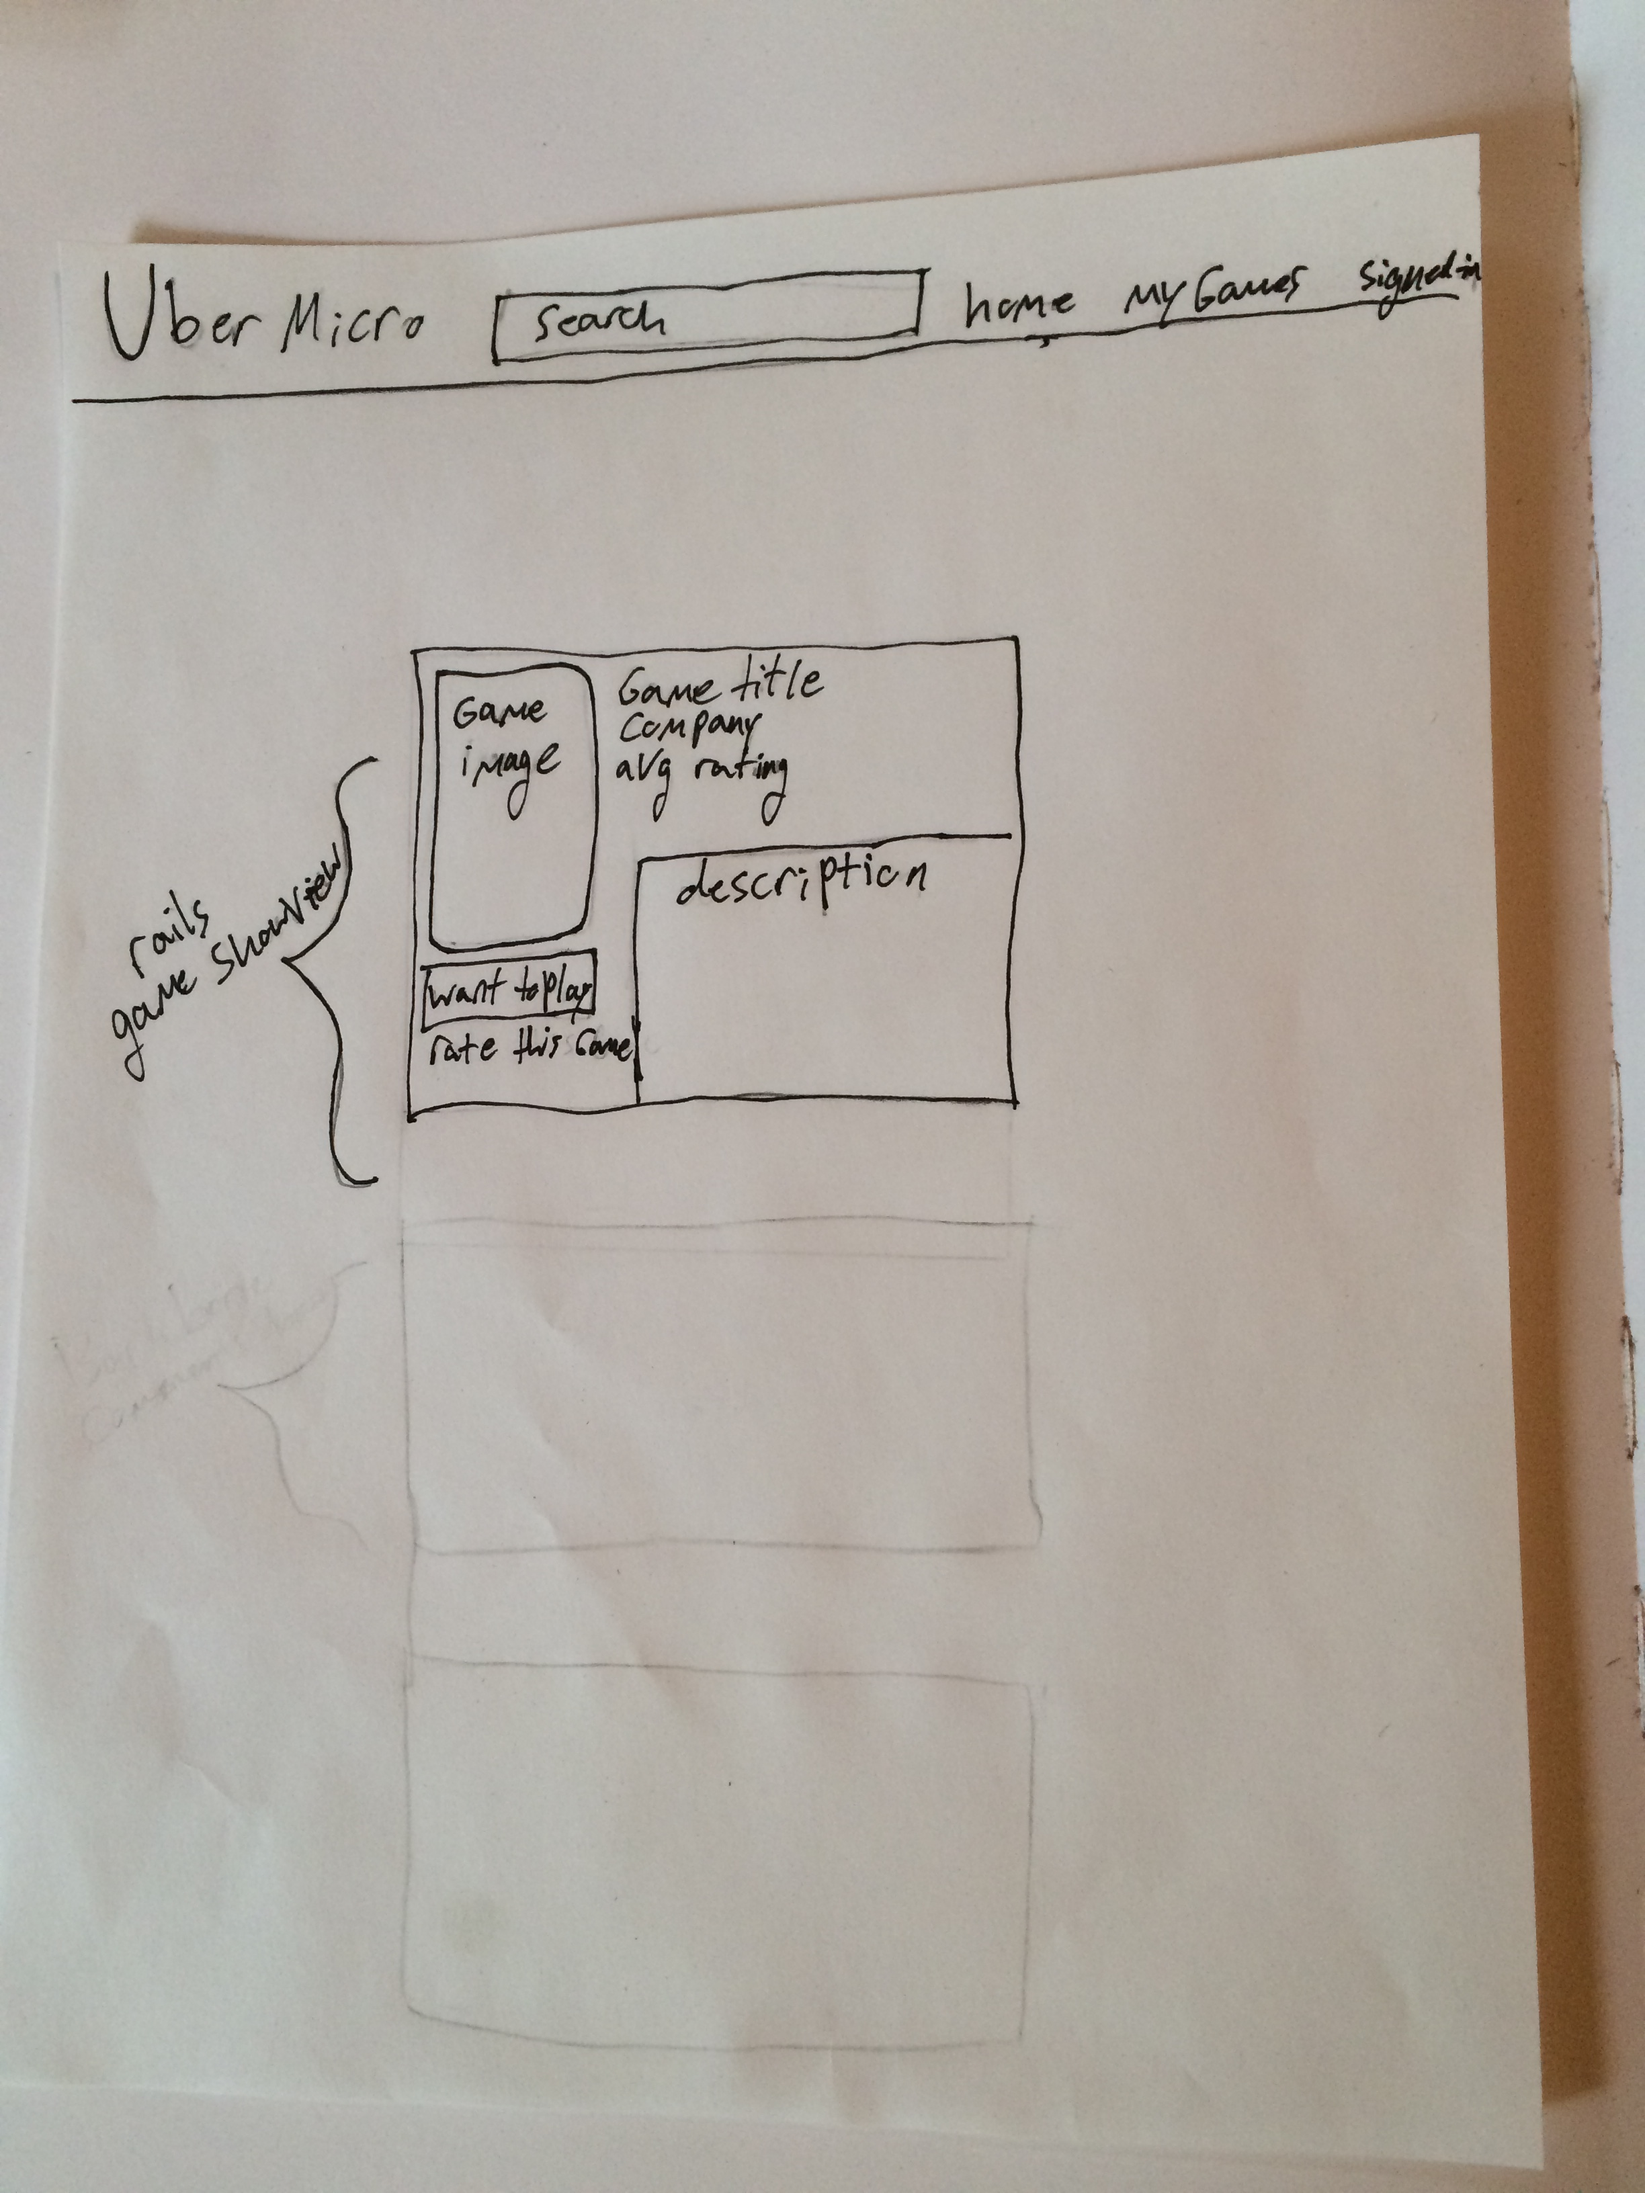
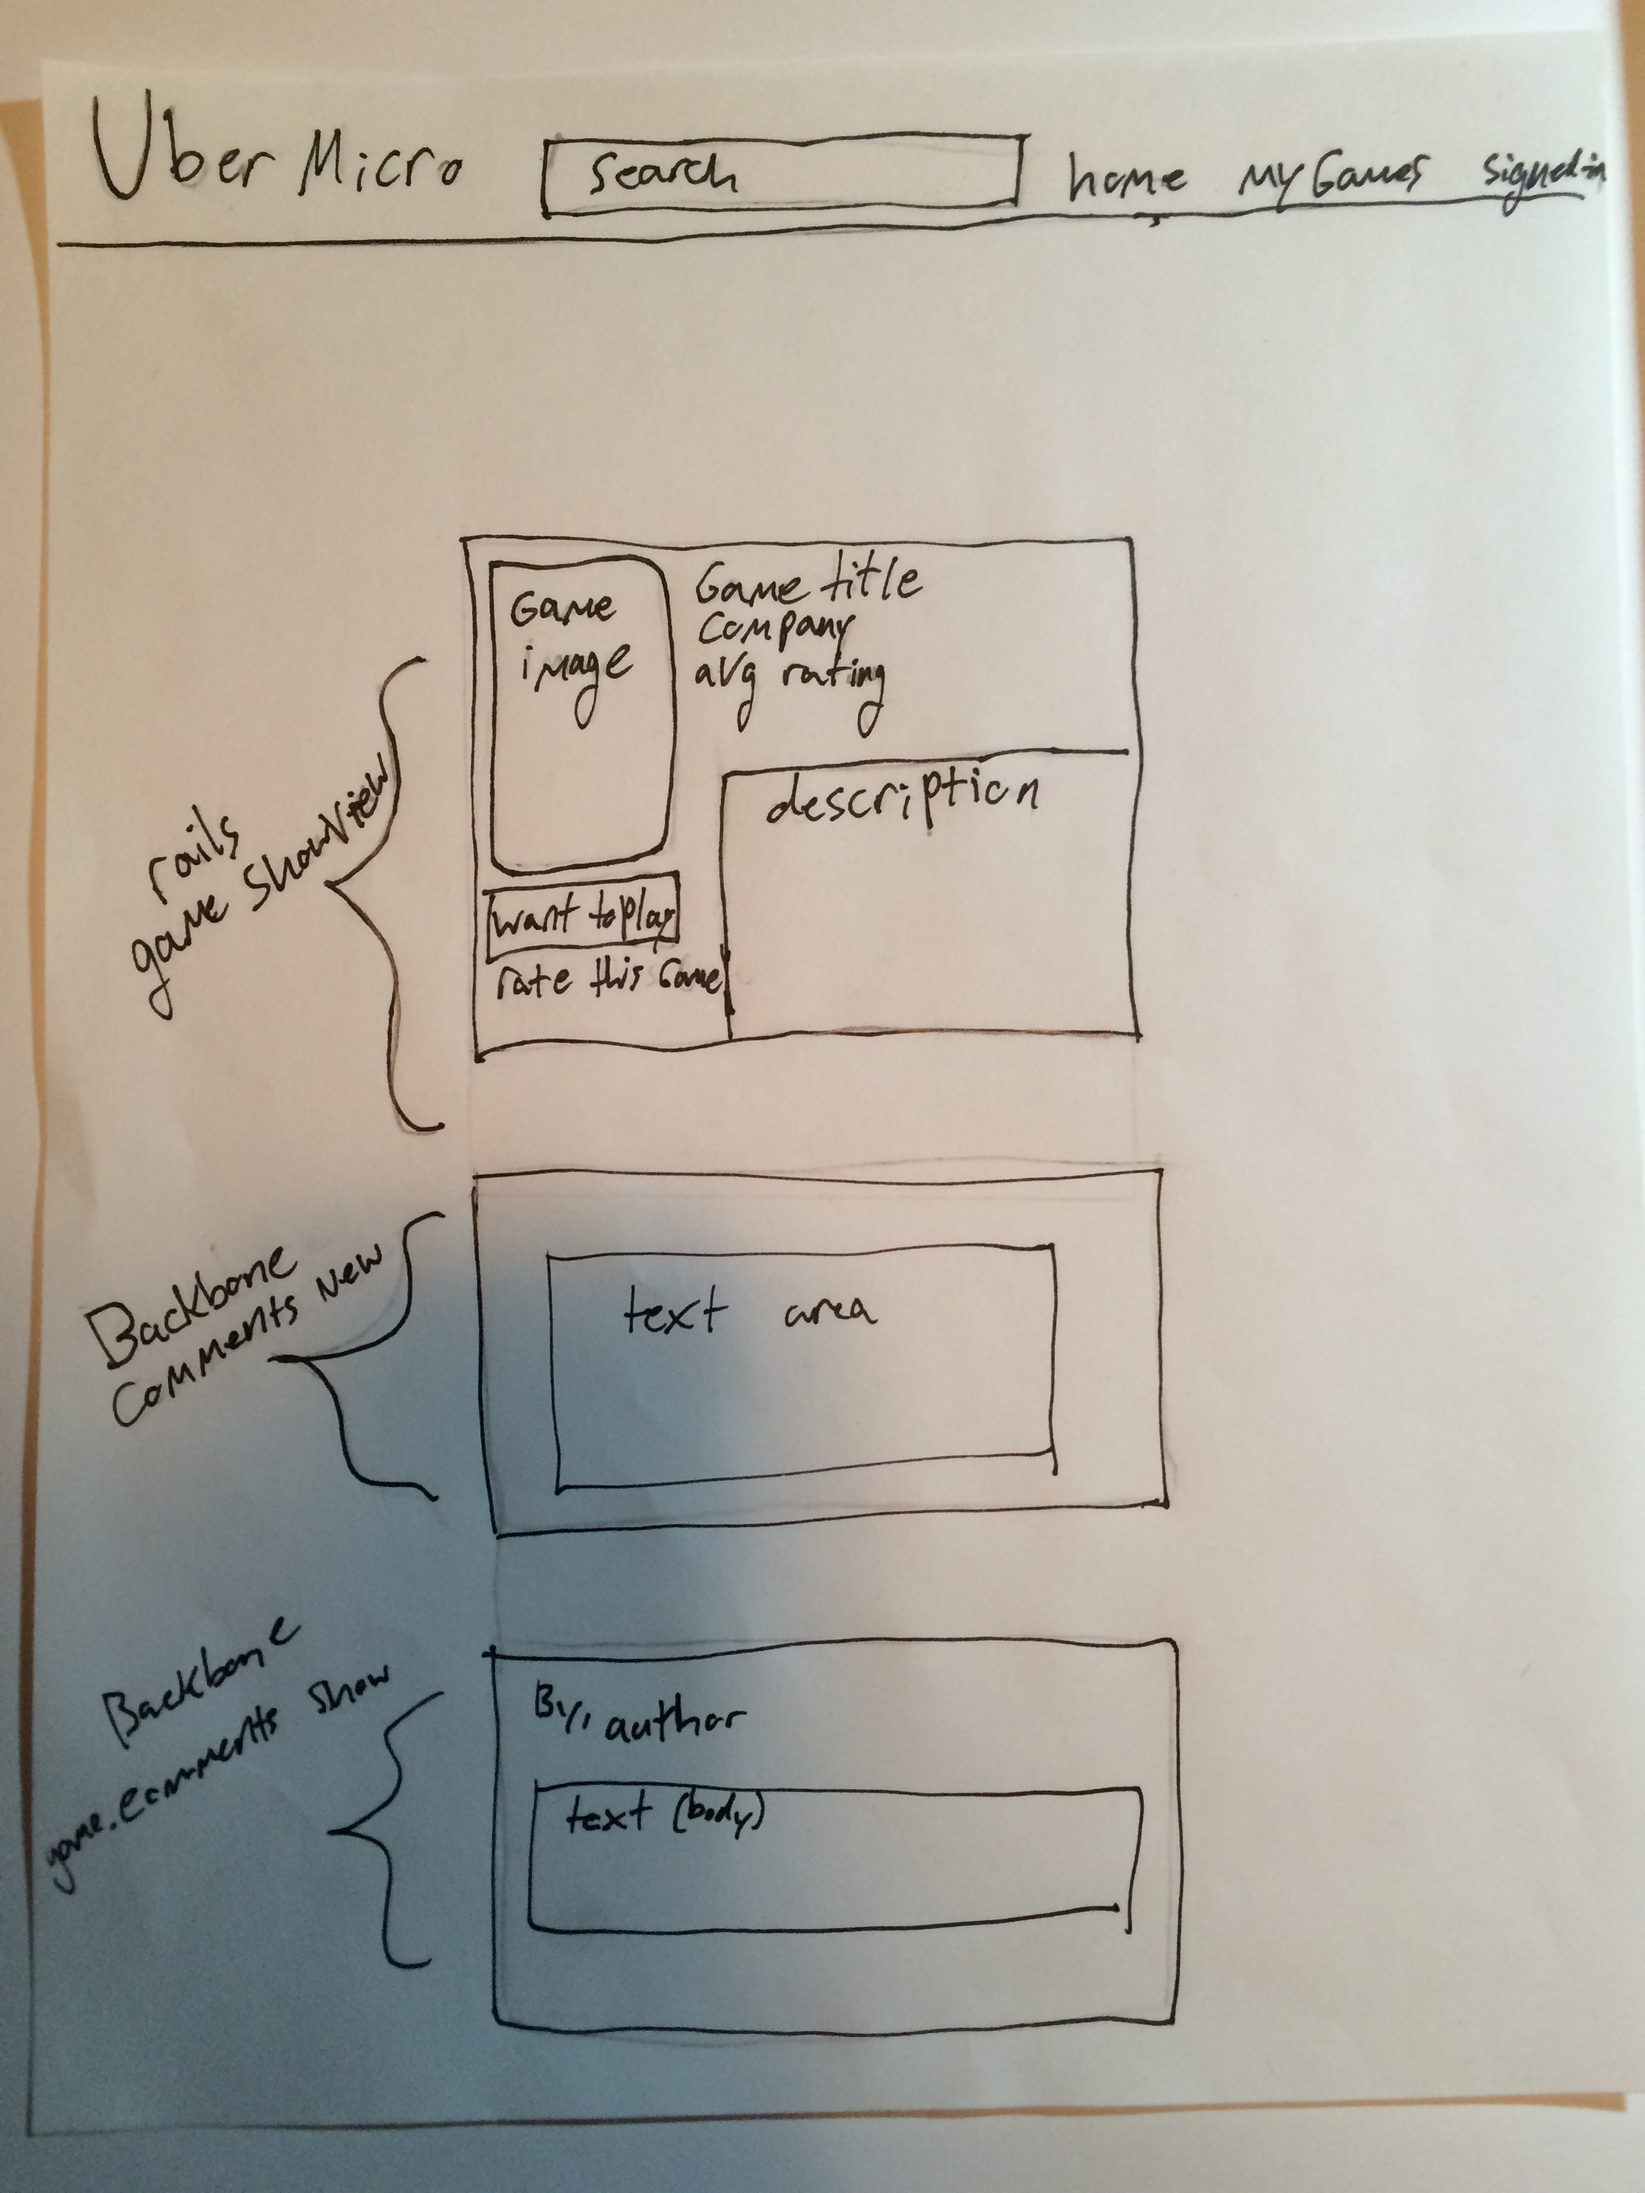
work on phases.

diff --git a/docs/schema.md b/docs/schema.md
@@ -23,9 +23,17 @@ column name     | data type | details
 ----------------|-----------|-----------------------
 id              | integer   | not null, primary key
 user_id         | integer   | not null, foreign key (references users)
-game_id         | integer   | not null, foreign key (references posts)
+game_id         | integer   | not null, foreign key (references games)
 my_rating       | integer   |
 status          | string    |
+
+## comments
+column name     | data type | details
+----------------|-----------|-----------------------
+id              | integer   | not null, primary key
+game_id         | integer   | not null, foreign key (references games)
+author_id       | integer   | not null, foreign key (references users)
+body            | text      | not null
 
 <!-- unique index combining user_id and game_id -->
 

diff --git a/docs/phases/phase2.md b/docs/phases/phase2.md
@@ -1,29 +1,26 @@
-# Phase 2: Viewing Blogs and Posts
+# Phase 2: Viewing Games and Comments
 
 ## Rails
 ### Models
 
 ### Controllers
-Api::BlogsController (create, destroy, index, show)
-Api::PostsController (create, destroy, show, update)
+API::GamesController (show)
+API::MyGamesController (create, destroy, update)
+API::CommentsController (create)
 
 ### Views
-* blogs/show.json.jbuilder
+* games/show.json.jbuilder
 
 ## Backbone
 ### Models
-* Blog (parses nested `posts` association)
-* Post
+* MyGames
+* Game
 
 ### Collections
-* Blogs
-* Posts
+* MyGames
+* Games
 
 ### Views
-* BlogForm
-* BlogShow (composite view, contains PostsIndex subview)
-* PostsIndex (composite view, contains PostsIndexItem subviews)
-* PostsIndexItem
-* PostShow
+* GamesShow
 
 ## Gems/Libraries

diff --git a/docs/phases/phase1.md b/docs/phases/phase1.md
@@ -1,22 +1,22 @@
-# Phase 1: User Authentication, Basic Blogs and Posts
+# Phase 1: User Authentication, Games
 
 ## Rails
 ### Models
 * User
-* Blog
-* Post
+* Game
+* MyGame
 
 ### Controllers
-* UsersController (create, new)
+* UserController (create, new)
 * SessionsController (create, new, destroy)
-* BlogsController (create, new, show)
-* PostsController (create, new, show)
+* GameController (show, index, new, create)
+* MyGameController (create)
 
 ### Views
 * users/new.html.erb
 * session/new.html.erb
-* blogs/new.html.erb
-* blogs/show.html.erb
+* games/show.html.erb
+* games/index.html.erb
 
 ## Backbone
 ### Models

diff --git a/docs/phases/phase4.md b/docs/phases/phase4.md
@@ -1,13 +1,11 @@
-# Phase 4: User Feeds
+# Phase 4: Games Search
 
 ## Rails
 ### Models
 
 ### Controllers
-Api::PostsController (feed)
 
 ### Views
-posts/feed.json.jbuilder
 
 ## Backbone
 ### Models
@@ -15,6 +13,5 @@ posts/feed.json.jbuilder
 ### Collections
 
 ### Views
-* FeedShow (composite view, contains PostsIndex subview)
 
 ## Gems/Libraries

diff --git a/docs/phases/phase3.md b/docs/phases/phase3.md
@@ -1,21 +1,20 @@
-# Phase 3: Editing and Displaying Posts
+# Phase 3: Adding comments
 
 ## Rails
 ### Models
 
 ### Controllers
-
 ### Views
 
 ## Backbone
 ### Models
+* Comment
 
 ### Collections
+* Comments
 
 ### Views
-* PostForm
+* CommentsForm
+* CommentsShow
 
 ## Gems/Libraries
-* Filepicker
-* Markdown-js
-* Bootstrap Markdown
